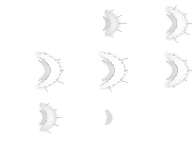
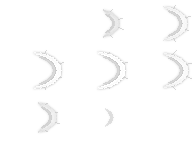
tweak(sukuna): 斩击刃更细、命中方向随机化

diff --git a/core/src/main/java/com/shatteredpixel/shatteredpixeldungeon/effects/SukunaSlashEffect.java b/core/src/main/java/com/shatteredpixel/shatteredpixeldungeon/effects/SukunaSlashEffect.java
@@ -79,24 +79,29 @@ public class SukunaSlashEffect extends MovieClip {
 
 		switch (Random.Int(4)) {
 			case 0:
-				//一道细长血红斩击
-				place(parent, from, to, angle, 0.6f, 0.14f, 2.0f, 0.35f, 0.35f);
+				//一道细长血红斩击，方向随机偏转
+				place(parent, from, to, angle + Random.Float(-20f, 20f),
+						0.55f + Random.Float(-0.08f, 0.12f), 0.14f, 2.0f, 0.35f, 0.35f);
 				break;
 			case 1:
-				//缓慢的暗红重斩
-				place(parent, from, to, angle + Random.Float(-8f, 8f), 0.95f, 0.22f, 1.6f, 0.12f, 0.16f);
+				//缓慢的暗红重斩，角度更开放
+				place(parent, from, to, angle + Random.Float(-35f, 35f),
+						0.8f + Random.Float(-0.1f, 0.15f), 0.22f, 1.6f, 0.12f, 0.16f);
 				break;
 			case 2:
-				//两道平行斩痕
-				place(parent, offset(from, angle, 4f), offset(to, angle, 4f), angle + 6f, 0.55f, 0.13f, 2.1f, 0.4f, 0.36f);
-				place(parent, offset(from, angle, -4f), offset(to, angle, -4f), angle - 6f, 0.55f, 0.17f, 1.7f, 0.2f, 0.24f);
+				//交叉双斩，方向随机交叉
+				float crossAngle = Random.Float(30f, 50f);
+				place(parent, from, to, angle + crossAngle, 0.5f, 0.13f, 2.1f, 0.4f, 0.36f);
+				place(parent, from, to, angle - crossAngle, 0.5f, 0.16f, 1.7f, 0.2f, 0.24f);
 				break;
 			default:
-				//三道爪痕
+				//三道爪痕，间距与角度随机
+				float spread = Random.Float(10f, 18f);
 				for (int i = -1; i <= 1; i++) {
-					float off = i * 5f;
+					float off = i * Random.Float(4f, 7f);
 					place(parent, offset(from, angle, off), offset(to, angle, off),
-							angle + i * 14f, 0.5f, 0.15f + Math.abs(i) * 0.03f,
+							angle + i * spread + Random.Float(-6f, 6f),
+							0.45f + Random.Float(-0.05f, 0.08f), 0.14f + Math.abs(i) * 0.03f,
 							2.2f, 0.45f - Math.abs(i) * 0.1f, 0.4f - Math.abs(i) * 0.08f);
 				}
 				break;
